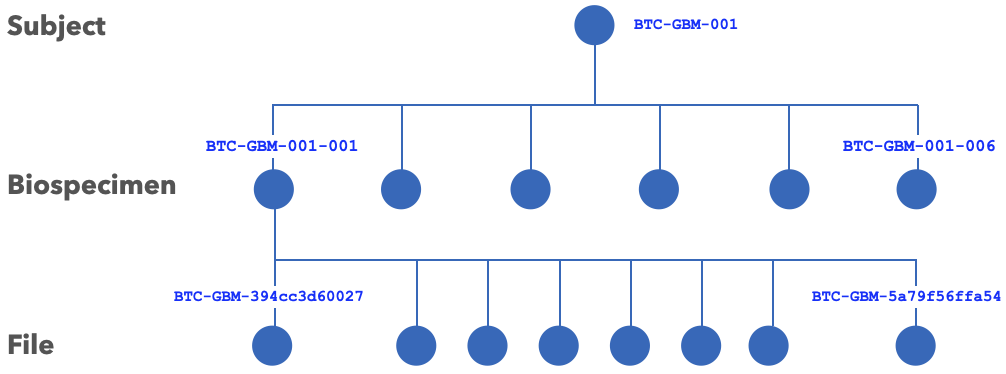
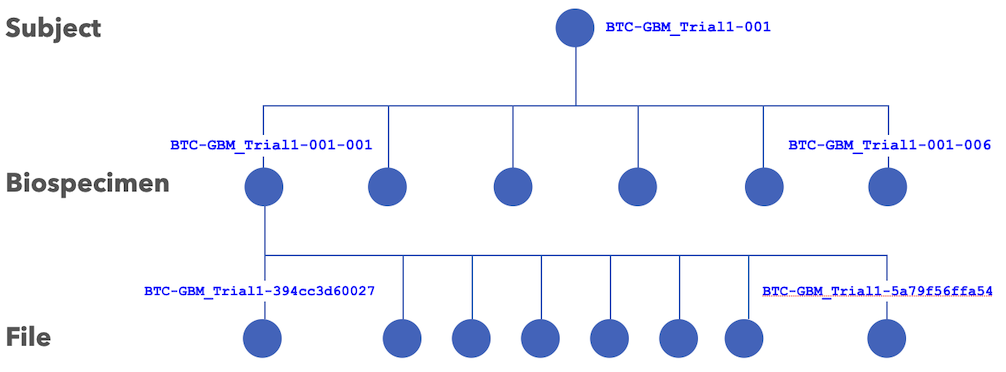
v0.7.2 data ref: finally introduce study instead of project name, to catch documentation up with practice of last few months

diff --git a/docs/index.html b/docs/index.html
@@ -139,7 +139,7 @@
               </ul>
             </li>
             
-            <li class="nav-item" data-level="2"><a href="#version-071" class="nav-link">Version 0.7.1</a>
+            <li class="nav-item" data-level="2"><a href="#version-072" class="nav-link">Version 0.7.2</a>
               <ul class="nav flex-column">
               </ul>
             </li>
@@ -244,11 +244,14 @@ version broadly available to BTC in Q2 of 2024.  Please contact the <a href="mai
 <hr />
 <p>As data are added to DASH they are tagged with subject and sample (biospecimen) identifiers as follows:
 <img alt="btc-id-scheme" src="img/btc-id-scheme.png" />
-At minimum such IDs will be attached to BTC clinical trial data; and ideally to BTC pre-clinical, basic research, and external data as appropriate (all by way of the scheme <a href="./#external-data">described here</a>). Note that here “biospecimen” is preferred over “sample” for generality and to capture that samples can be subdivided into multiple portions. The association between data file and biospecimen is maintained as
-metadata within the DASH database, not within the file identifier itself.  A hypothetical data tree for the first
-subject (patient) of the BTC glioblastoma multiforme trial might look like
+At minimum such IDs will be attached to BTC clinical trial data; and ideally to BTC pre-clinical, basic research, and external data as appropriate (all by way of the scheme <a href="./#external-data">described here</a>). Note that here “biospecimen” is preferred over “sample” for generality and to capture that samples can be subdivided into multiple portions. The association between data file and biospecimen is maintained as metadata within the DASH database, not within the file identifier itself.
+To see how this ID scheme might play out, here's what a hypothetical data tree for the first subject (patient) of 
+the first BTC glioblastoma multiforme trial might look like
 <img alt="gbm-id-example" src="img/gbm-id-example.png" />
-Here 6 needle biopsy cores (samples) were extracted; the first of which has been characterized in multiple assays, yielding 8 distinctly molecular data output files (i.e. one per data type). Each interventional timepoint in a longitudinal trial would yield a new sample (or samples) for that subject.</p>
+Here 6 needle biopsy cores (samples) were extracted; the first of which has been characterized in multiple assays, yielding 8 distinctly molecular data
+output files (i.e. one per data type). Each interventional timepoint in a longitudinal trial would yield a new sample (or samples) for that subject.
+Finally, note that BTC may devise study names which encompass the entire set of data generated by a TeamLab, (e.g. a study name of "GBM" that might
+include ALL data from trial 1, trial 2, and so forth).</p>
 <h3 id="scope">Scope</h3>
 <p>It will help to amplify a <a href="./#data-curation">point made above in the context of data curation</a>, namely that
 <strong>BTC- identifiers apply only to data AFTER sharing into DASH</strong>.  These IDs do not replace identifiers attached
@@ -266,7 +269,7 @@ standards and nomenclature, including for
 and <a href="https://humantumoratlas.org/standard/imaging">imaging</a> data.
 For convenience, some of those standards will be excerpted below but we refer the reader back to the original material at the given links for an exhaustive treatment.
 <img alt="data-levels" src="img/data-levels.png" />
-Each disease project in BTC contributes data from 1 or more enrolled Subjects, who have donated Biospecimens. Data files are generated when 
+Each disease study in BTC contributes data from 1 or more enrolled Subjects, who have donated Biospecimens. Data files are generated when 
 biospecimens are assayed by an instrument/protocol or processed in downstream SOPs or analyses. Captured metadata enables tracing of any data file back to its source biospecimen. Level 1 raw data files are derived directly from the corresponding biospecimen, whereas processed level 2-4 data files are linked to lower level parent data files.</p>
 <h2 id="clinical-data-levels-tiers">Clinical Data Levels (Tiers)</h2>
 <hr />
@@ -313,7 +316,7 @@ including single-cell and single-nucleus RNA Seq (sc/snRNASeq), single-cell ATAC
 <p><strong>DASH:</strong> investigator requests that BTC make external easily accessible to other BTC collaborators via DASH; either in raw form directly from the staging area or more formally with BTC identifiers attached so that the identity and provenance are clear</p>
 </li>
 </ul>
-<p>In the latter case of external data being assigned BTC IDs, a unique project abbreviation will be created to indicate that the dataset is from an external source, following the schema EXT_<dataset_specific_tag>.  For example, if we were to load BRCA data from TCGA into DASH, one might use TCGA_BRCA as the project abbreviation, yielding identifiers for such data that begin with BTC-TCGA_BRCA- and so forth.  Attaching BTC identifiers to external data may provide a number of advantages</p>
+<p>In the latter case of external data being assigned BTC IDs, a unique study name will be created to indicate that the dataset is from an external source, following the schema EXT_<dataset_specific_tag>.  For example, if we were to load BRCA data from TCGA into DASH, one might use TCGA_BRCA as the study name, yielding identifiers for such data that begin with BTC-TCGA_BRCA- and so forth.  Attaching BTC identifiers to external data may provide a number of advantages</p>
 <ul>
 <li>Enabling it to be seamlessly mingled with internal BTC data</li>
 <li>Then processed and analyzed at scale in downstream pipelines or analysis tools</li>
@@ -321,7 +324,7 @@ including single-cell and single-nucleus RNA Seq (sc/snRNASeq), single-cell ATAC
 <li>And simplifying later bookkeeping and database tracing when assembling data for publication</li>
 </ul>
 <p>but should not be interpreted as a claim that BTC now “owns” or is attempting to “re-brand” those external data.</p>
-<h2 id="version-071">Version 0.7.1</h2></div>
+<h2 id="version-072">Version 0.7.2</h2></div>
             </div>
         </div>
 
@@ -404,8 +407,8 @@ including single-cell and single-nucleus RNA Seq (sc/snRNASeq), single-cell ATAC
 
 <!--
 MkDocs version : 1.5.2
-Build Date UTC : 2024-03-04 16:32:09.356586+00:00
+Build Date UTC : 2024-05-07 16:47:46.308834+00:00
 -->
 <center  style="font-size:.85em; color: #bababa; margin-top: -1.5em">
-2024_03_04_11:32:09
+2024_05_07_12:47:46
 </center>

diff --git a/docs/about/index.html b/docs/about/index.html
@@ -276,5 +276,5 @@ but as new methods develop across BTC and beyond we’ll seek to harden them for
     </body>
 </html>
 <center  style="font-size:.85em; color: #bababa; margin-top: -1.5em">
-2024_03_04_11:32:09
+2024_05_07_12:47:46
 </center>

diff --git a/docs/faq/index.html b/docs/faq/index.html
@@ -230,5 +230,5 @@ gathering/engineering, or provide analytic insight and/or assist with interpreta
     </body>
 </html>
 <center  style="font-size:.85em; color: #bababa; margin-top: -1.5em">
-2024_03_04_11:32:09
+2024_05_07_12:47:46
 </center>
